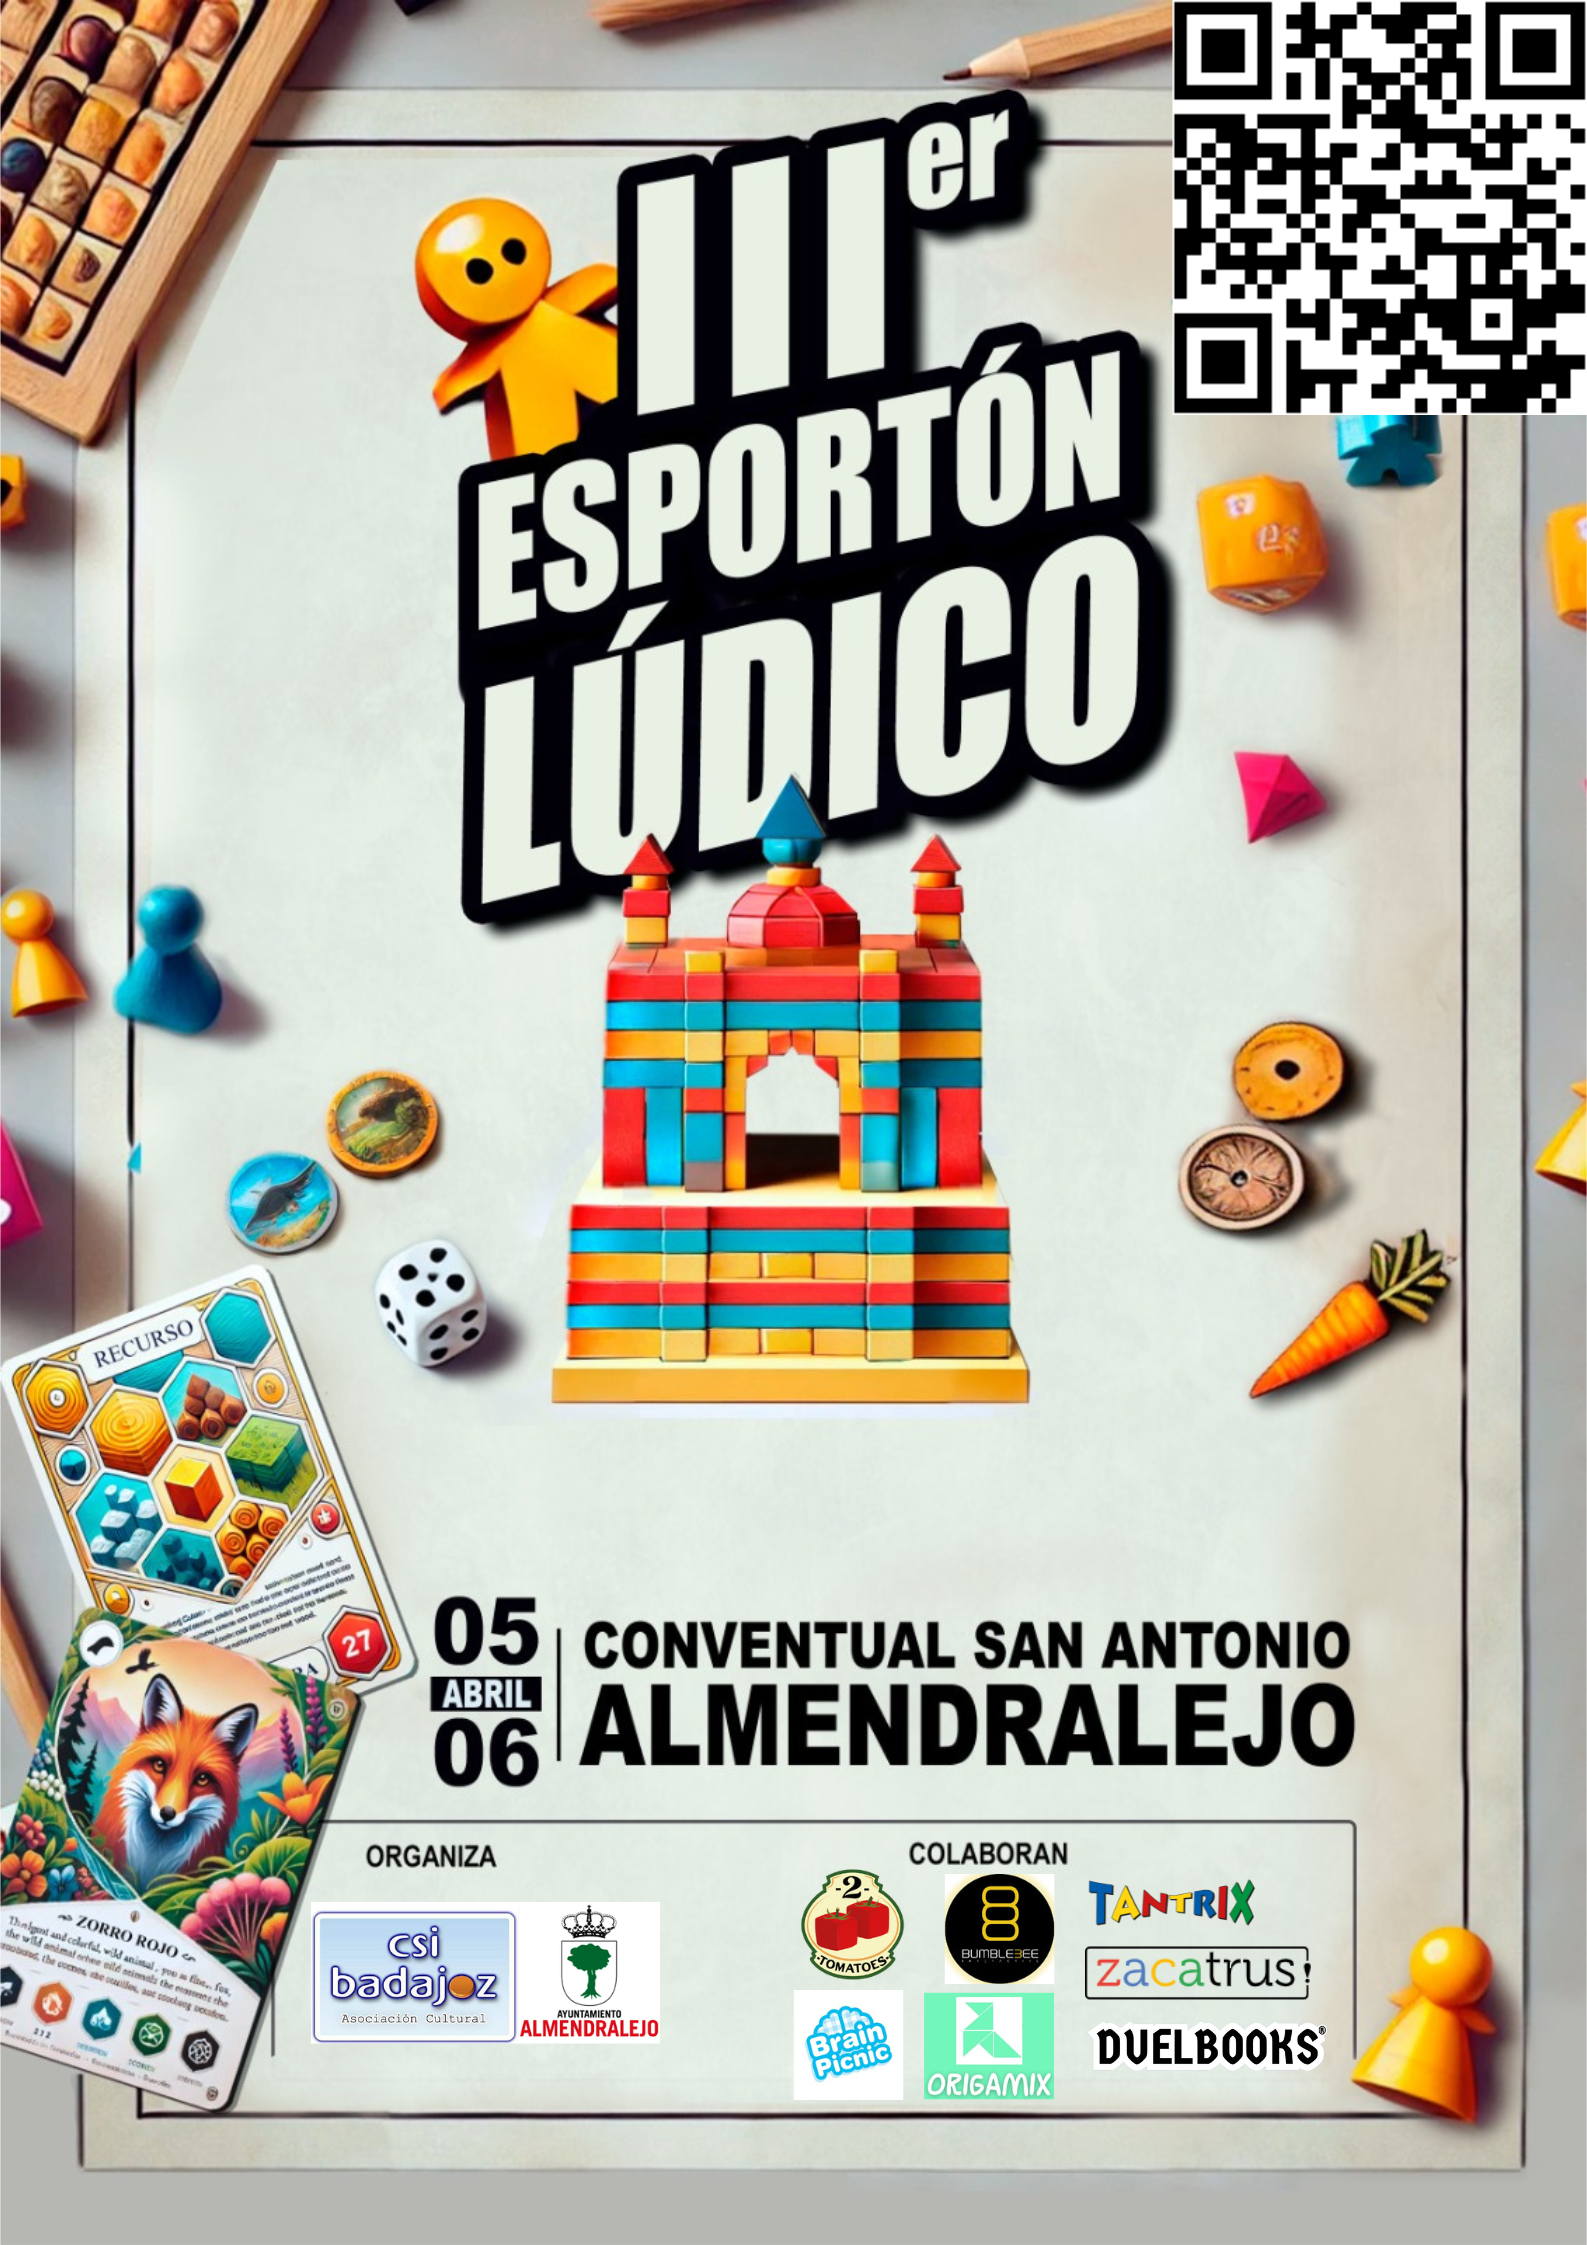
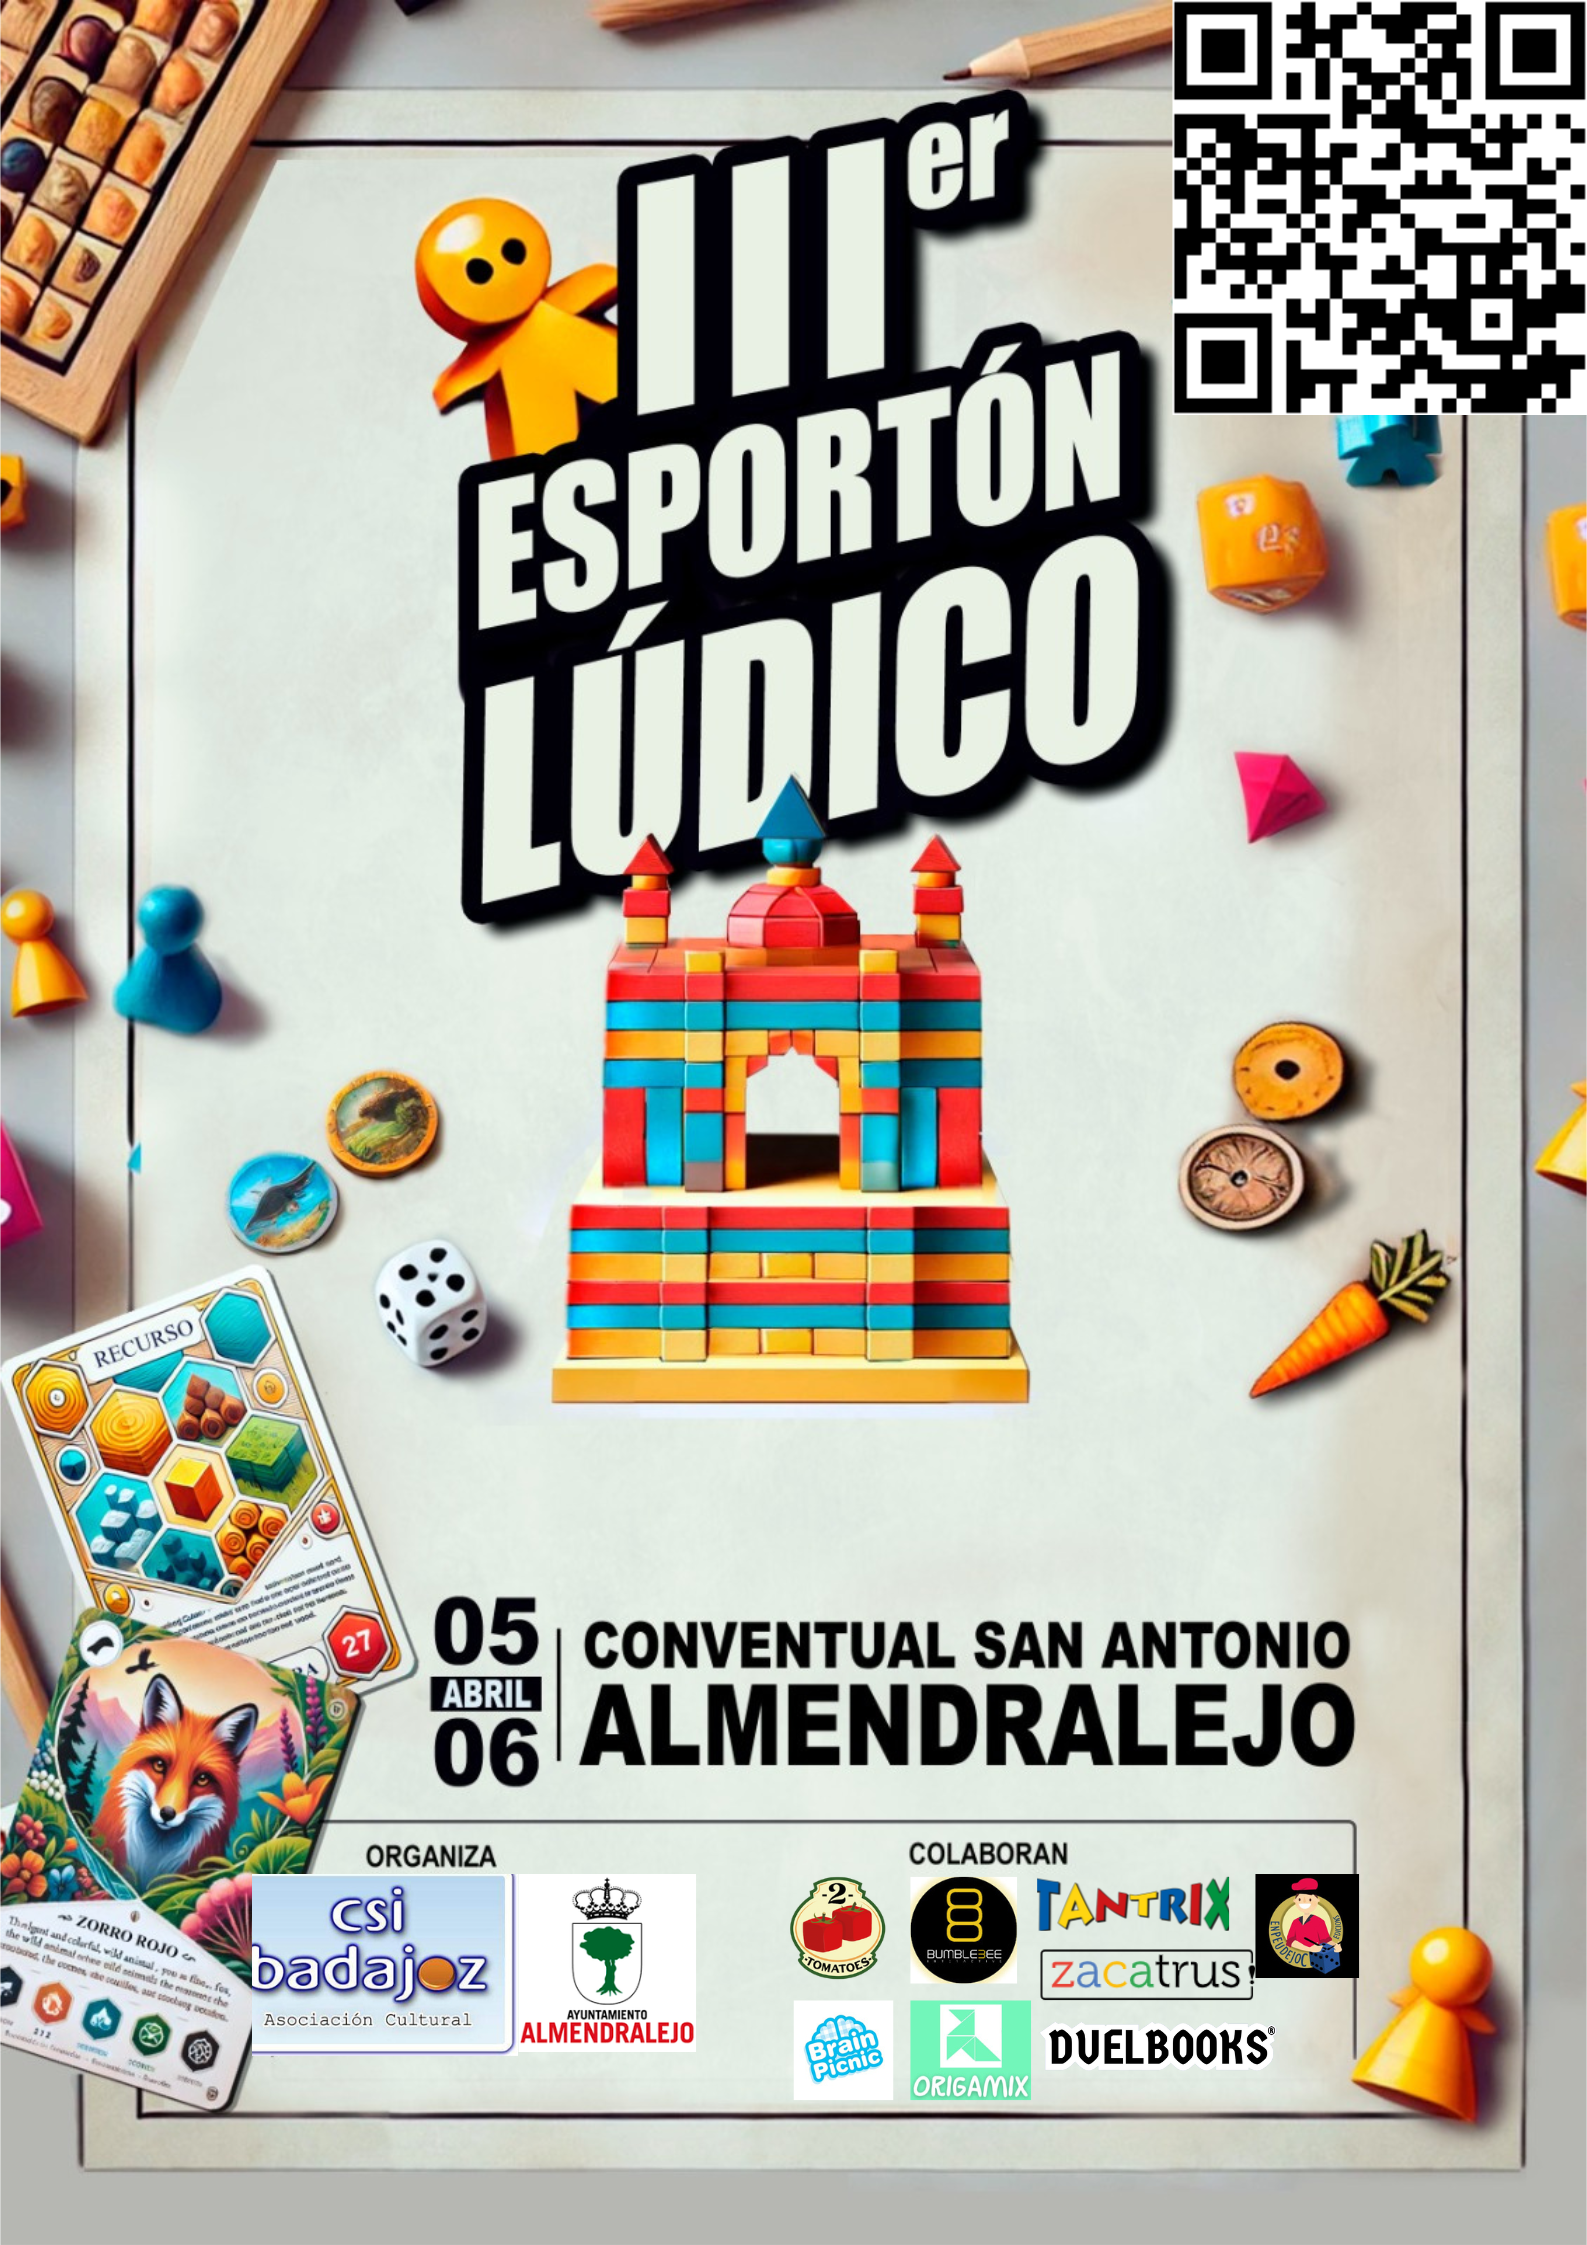
2025-03-21

Changed region(s): [[0.494, 0.8107, 0.8645, 0.9354], [0.1544, 0.8107, 0.4631, 0.9354]]

diff --git a/iiiel.html b/iiiel.html
@@ -16,7 +16,6 @@ title: III Esportón Lúdico
 <p>SÁBADO</p>
 <ul>
     <li>11:00 - Apertura</li>
-    <li>11:30 - Torneo Carcassonne</li>
     <li>12:00 - Desmostraciones de juegos de mesa</li>
     <li>14:30 - Descanso - comida</li>
     <li>17:00 - Apertura tarde</li>
@@ -61,3 +60,7 @@ title: III Esportón Lúdico
 <p>Se suma a nuestra actividad la editorial <a href="https://zacatrus.es/" target="_blank"></a><b>Zacatrus</b></p>
 
 <img src="/assets/images/todas/2025/iii_esporton_ludico/logo_zacatrus.png">
+
+<p>Añadimos como editorial amiga y colaboradora a <a href="https://enpeudejocedicions.com/" target="_blank">Enpeudejoc Edicions</a></p>
+
+<img src="/assets/images/todas/2025/iii_esporton_ludico/logo_enpeudejoc.jpg">

diff --git a/_posts/2025/2025-03-21-enpeudejoc.md b/_posts/2025/2025-03-21-enpeudejoc.md
@@ -1,0 +1,16 @@
+---
+layout: post
+title: Enpeudejoc Edicions
+subtitle: más juegos !!
+excerpt_image: /assets/images/todas/2025/iii_esporton_ludico/logo_enpeudejoc.jpg
+categories: ludoteca
+tags: [ludoteca, enpeudejoc]
+---
+
+Vamos ganando amigos que nos ayudan, en esta ocasión [Enpeudejoc Edicion](https://enpeudejocedicions.com/), que con motivo de las próximas jornadas de 5 y 6 de abril 'III Esportón Lúdico' a celebrar en Almendralejo, podemos ampliar la oferta de fondos de la [ludoteca de la Asociación](https://boardgamegeek.com/collection/user/AsociacionCSIBadajoz?rankobjecttype=subtype&rankobjectid=1&columns=title%7Cthumbnail%7Cversion%7Ccomment&geekranks=Board%20Game%20Rank&own=1&objecttype=thing&ff=1&subtype=boardgame) de la Asociación.
+
+![enpeudejoc](/assets/images/todas/2025/ludoteca_enpeudejoc_2025.jpeg)
+
+Los juegos que hemos recibido son <b>Agros Tarraco</b>, <b>Monstrys Halloween</b> y <b>Crack it</b>. Gràcies.
+
+![enpeudejoc](/assets/images/todas/2025/iii_esporton_ludico/logo_enpeudejoc.jpg)

diff --git a/_posts/2025/2025-03-16-zacatrus.md b/_posts/2025/2025-03-16-zacatrus.md
@@ -13,4 +13,4 @@ Contamos también con esta editorial, [Zacatrus](https://zacatrus.es/), con moti
 
 Los juegos que hemos recibido son <b>Panots</b>, <b>Avio</b> y <b>Boomie Busters</b>. Gracias.
 
-![tantrix](/assets/images/todas/2025/iii_esporton_ludico/logo_zacatrus.png)
+![zacatrus](/assets/images/todas/2025/iii_esporton_ludico/logo_zacatrus.png)
